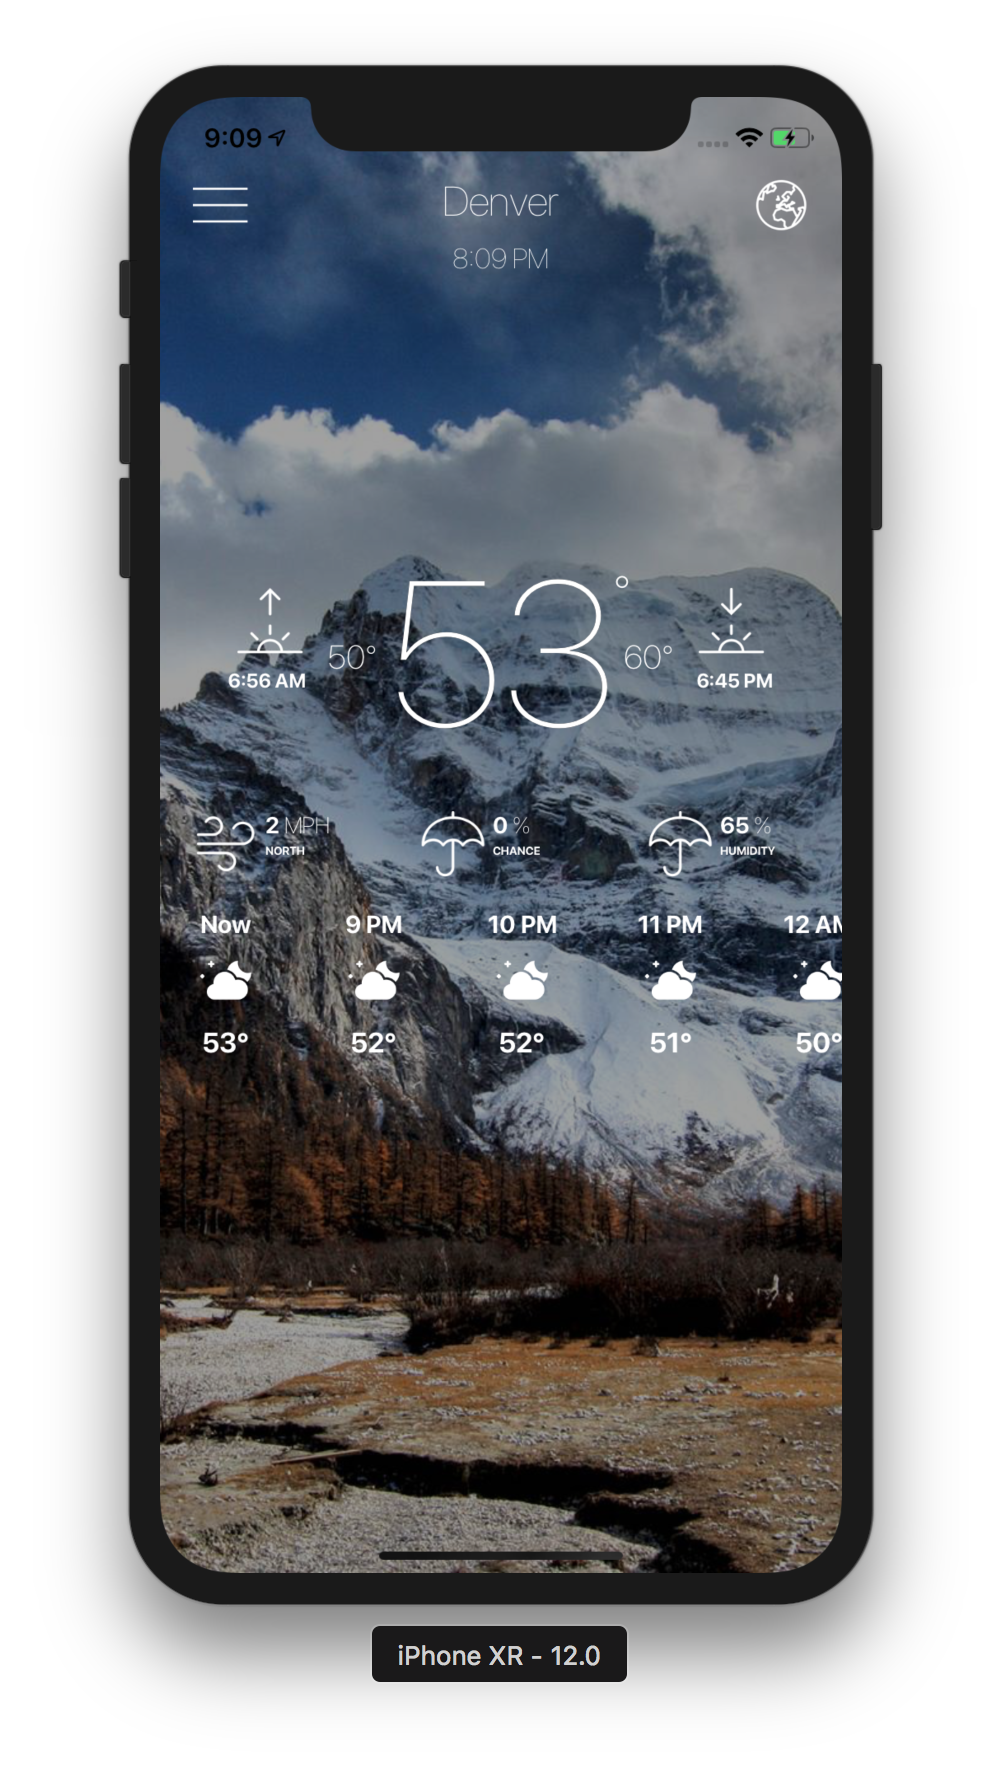
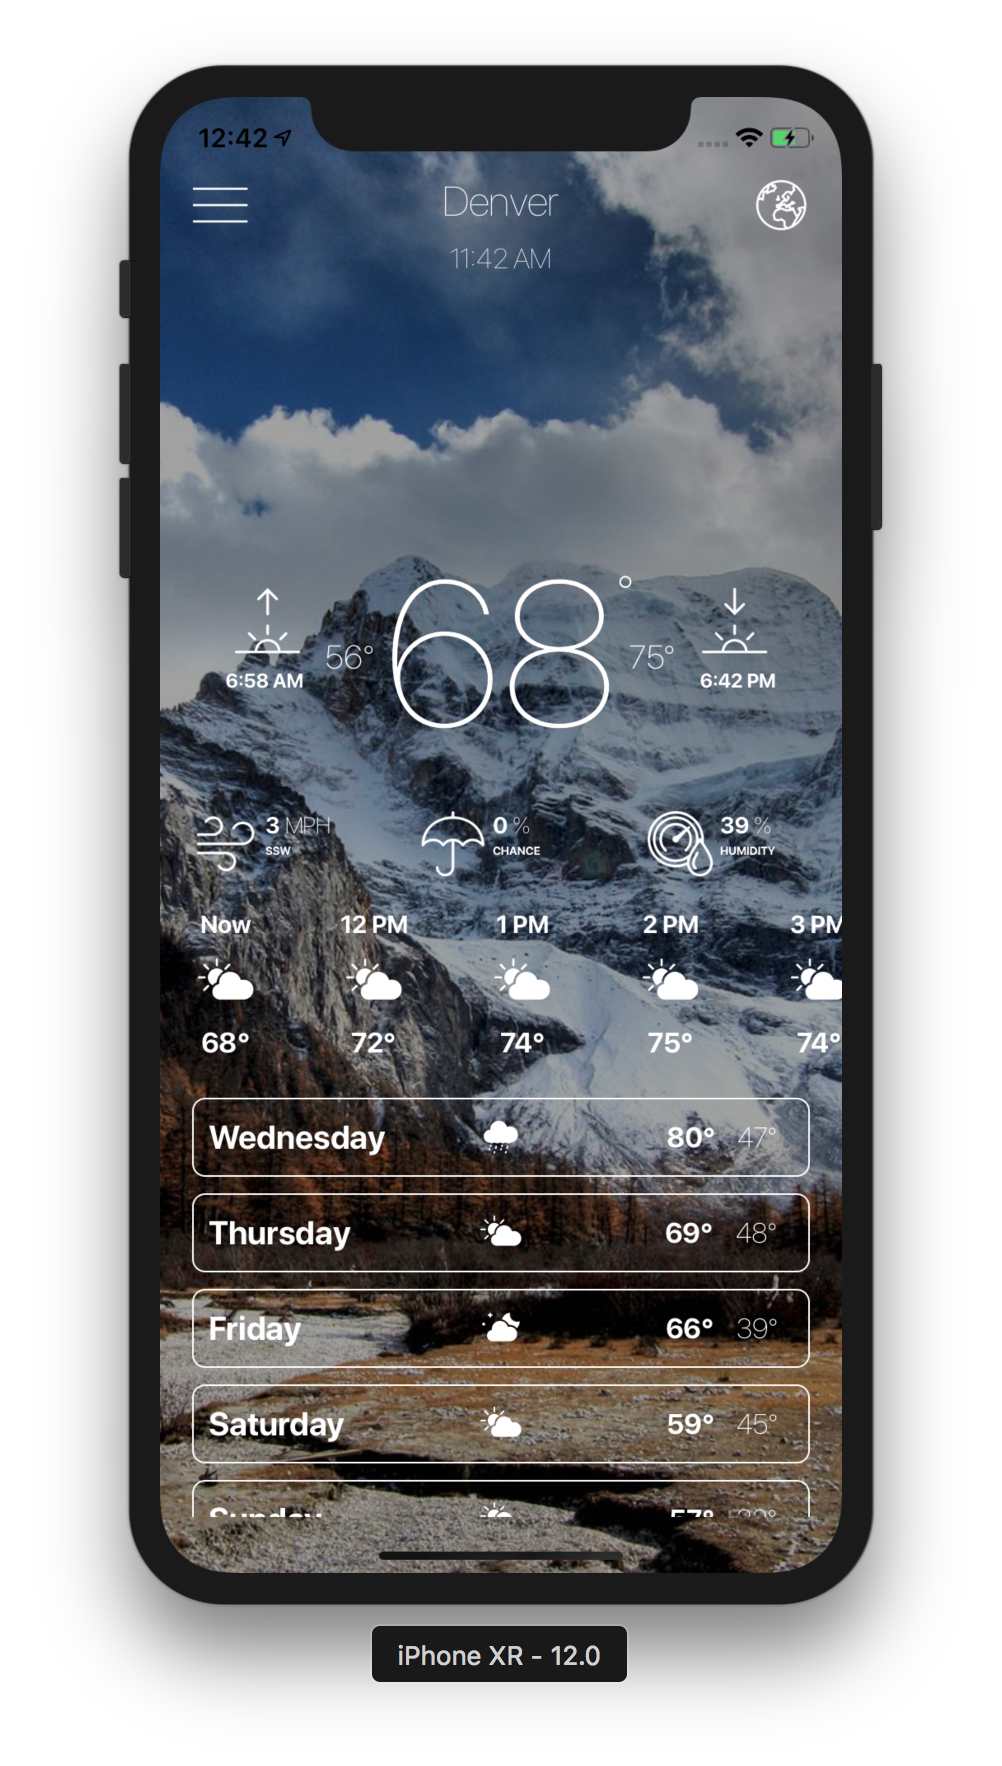
Readme image updates and removed print statement

diff --git a/Weather/Location.swift b/Weather/Location.swift
@@ -67,7 +67,6 @@ class Location {
                                                                     if let icon = day.icon {
                                                                         if let lowTemp = day.temperatureLow {
                                                                             if let highTemp = day.temperatureHigh {
-                                                                                print(icon)
                                                                                 let lowestTemp = String(Int(lowTemp))
                                                                                 let highestTemp = String(Int(highTemp))
                                                                                 days.append(DailyViewData(name: dayFormatter.string(from: day.time), weather: icon, lowTemperature: lowestTemp, highTemperature: highestTemp))
